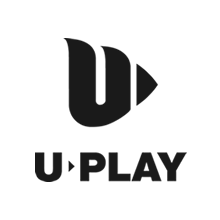
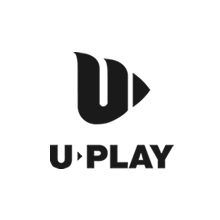
reedited images and added border

Changed region(s): [[0.1364, 0.6545, 0.8455, 0.8455], [0.2727, 0.1636, 0.7364, 0.6]]

diff --git a/public/css/main.css b/public/css/main.css
@@ -131,12 +131,11 @@ footer {
   width: 960px;
   margin: auto; }
   footer a {
-    float: left;
     color: #5a86c4;
     font-size: 1.3em;
     line-height: 1.5em;
     font-family: "PT Sans";
-    margin-left: 10px; }
+    margin-left: 0px; }
     footer a:hover {
       text-decoration: underline; }
 
@@ -255,11 +254,12 @@ a {
     font-family: "PT Sans"; }
 
 .member_logo {
-  width: 220px;
-  height: 220px;
+  width: 218px;
+  height: 218px;
   margin: 10px;
   margin-top: 50px;
-  float: left; }
+  float: left;
+  border: 1px solid #cccccc; }
 
 .social_facebook #facebook {
   width: 30px;

diff --git a/public/css/main.sass b/public/css/main.sass
@@ -128,9 +128,8 @@ footer
   width: $max_width
   margin: auto
   a
-    float: left
     +base_font($main_color, 1.3em, 1.5em)
-    margin-left: 10px
+    margin-left: 0px
     &:hover
       text-decoration: underline
 
@@ -232,11 +231,12 @@ a
 
 
 .member_logo
-  width: 220px
-  height: 220px
+  width: 218px
+  height: 218px
   margin: 10px
   margin-top: 50px
   float: left
+  border: 1px solid #ccc
 
 .social_facebook
   #facebook

diff --git a/public/index.html b/public/index.html
@@ -55,7 +55,7 @@
     <footer>
       <section class="organization">
         <h1>Organization</h1>
-        <img src="images/org1.png" /><img src="images/org2.png" />
+        <a href="http://www.factoryworkstyle.com/"><img src="images/org1.png" /></a><a href="http://www.groupbuddies.com"><img src="images/org2.png" /></a>
       </section>
       <section class="social social_facebook">
         <h1>Links</h1>
